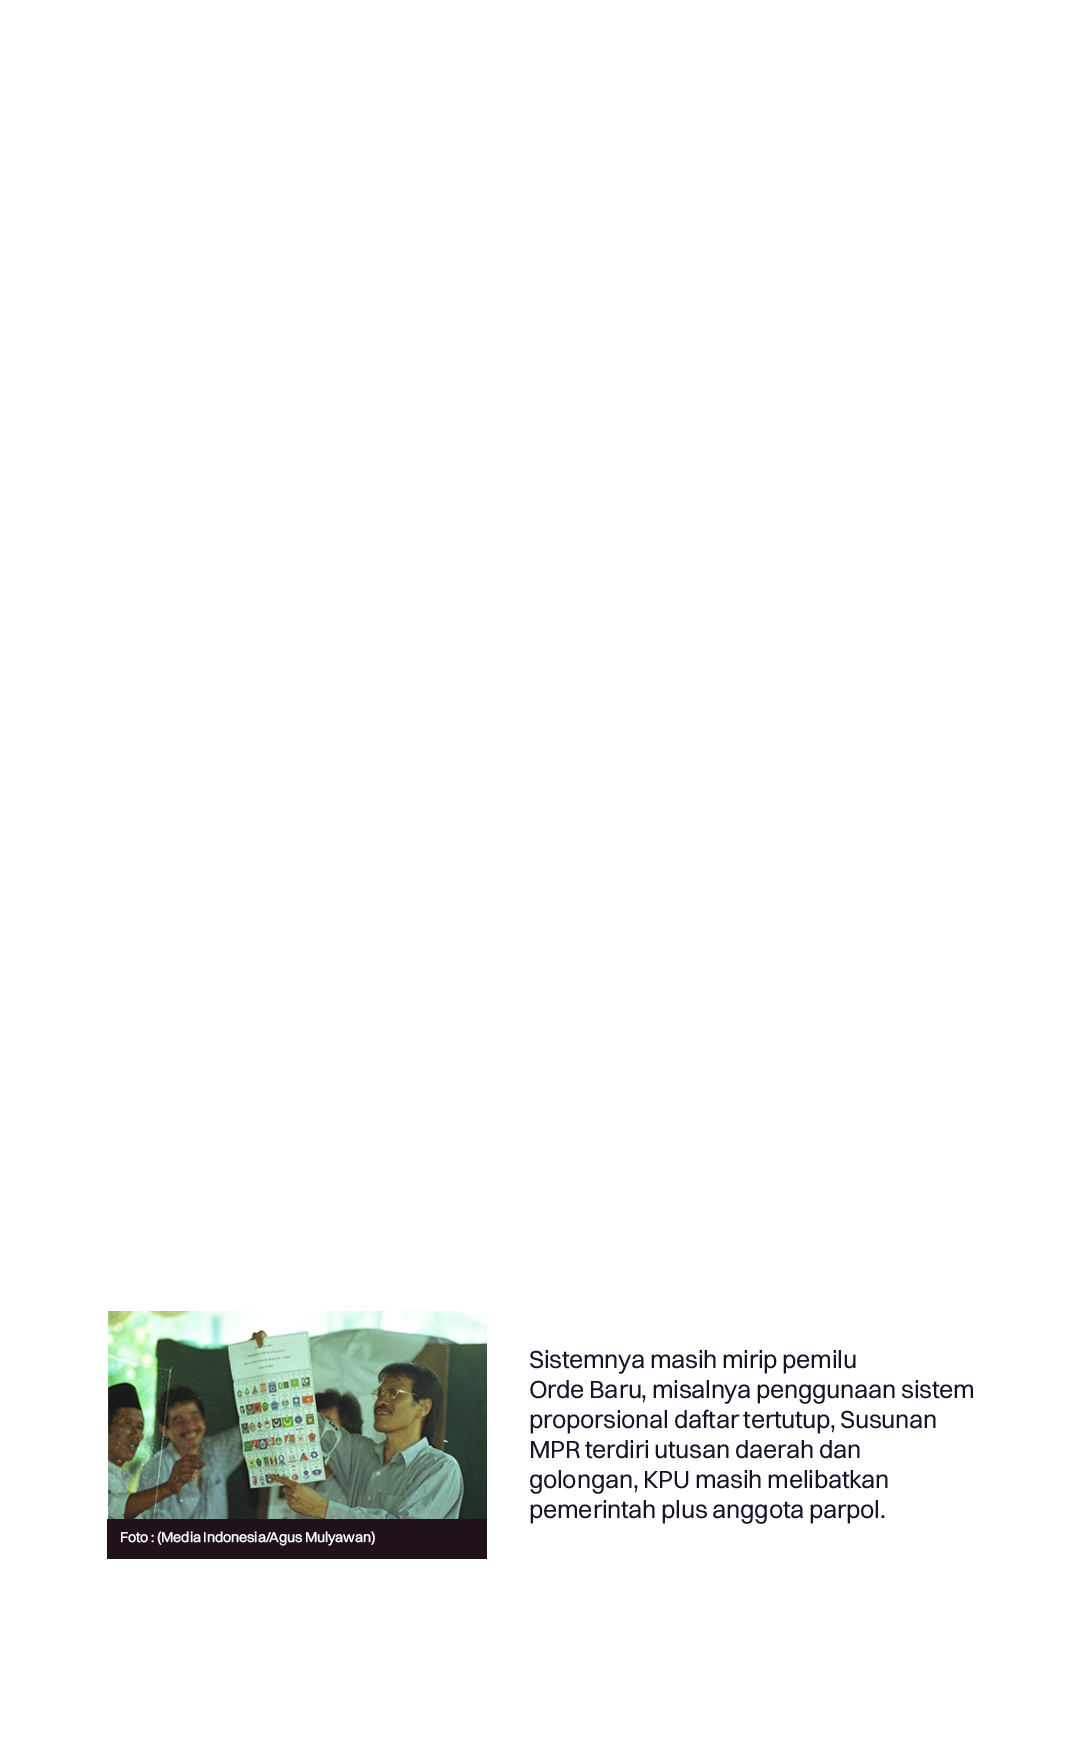
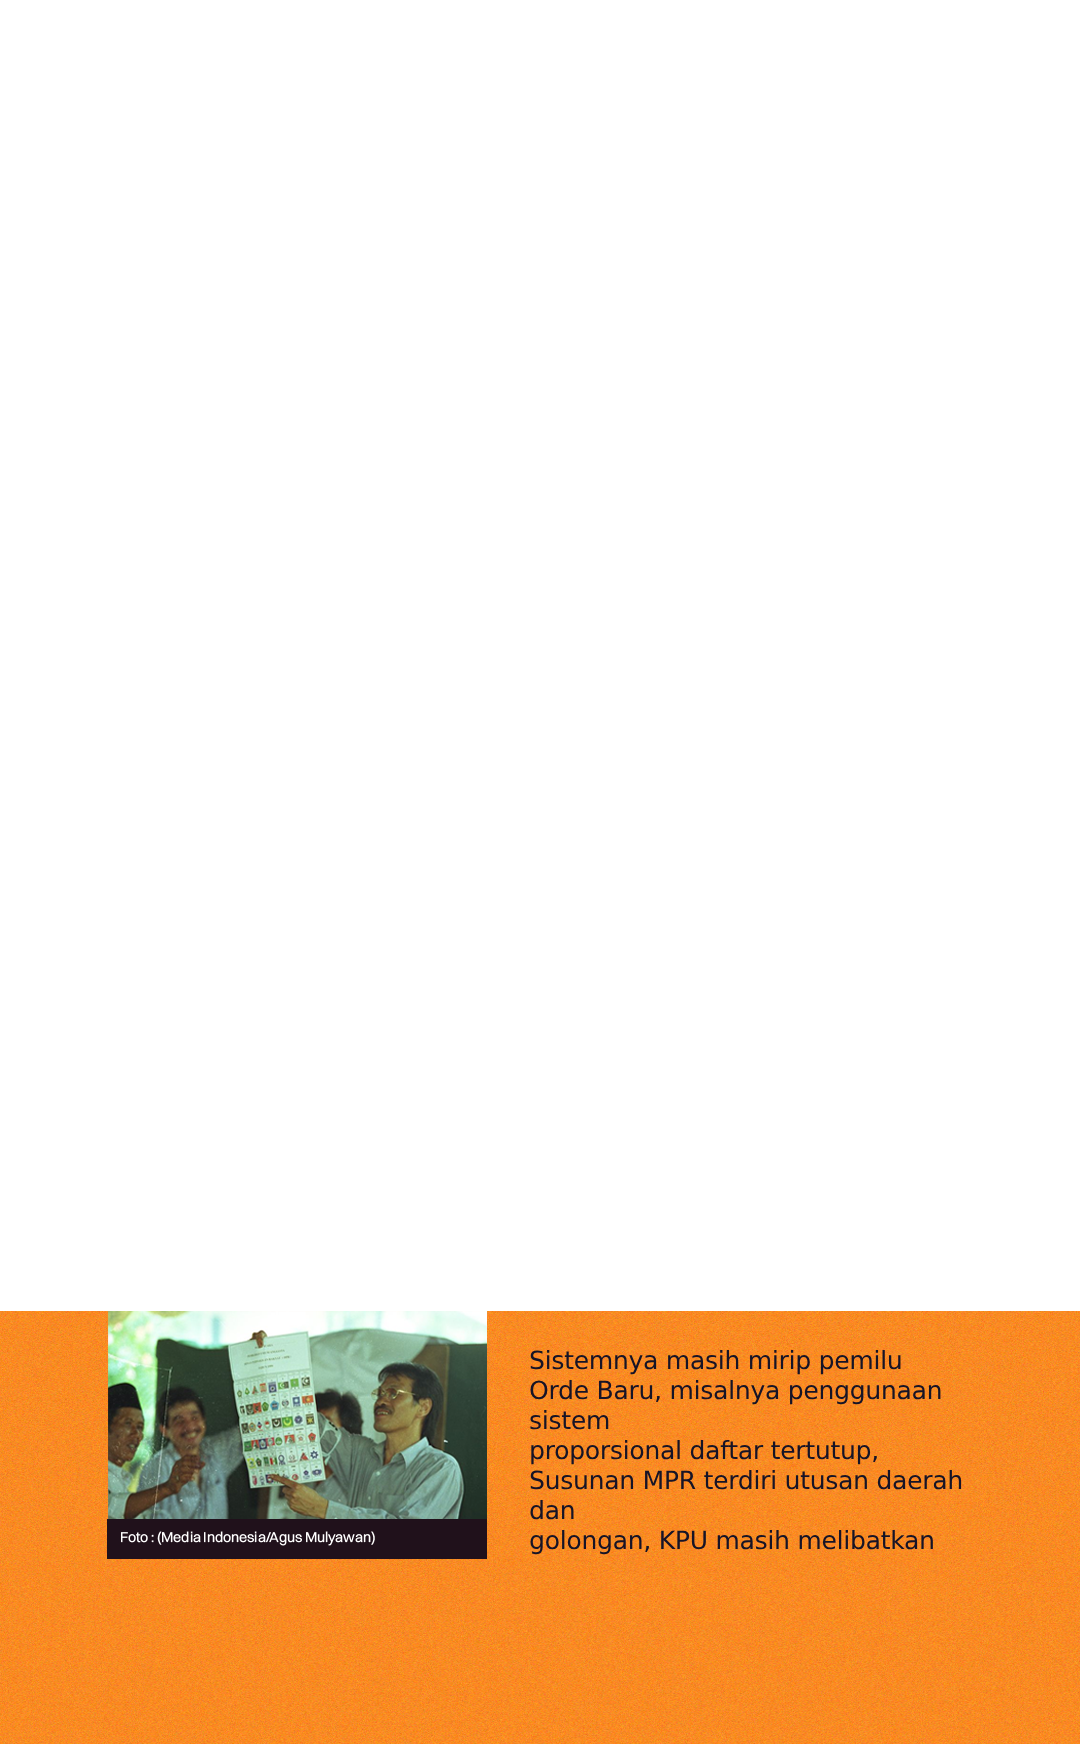
WIP: election 2004

Changed region(s): [[0.0, 0.7431, 1.0, 1.0]]

diff --git a/src/components/dynamic/section-orba-collapsed.tsx b/src/components/dynamic/section-orba-collapsed.tsx
@@ -19,7 +19,7 @@ export default function SectionOrbaCollapsed() {
   };
 
   return (
-    <div className="bg-[#1A1218] w-full py-12 mx-auto">
+    <div className="bg-[#1A1218] w-full py-12 mx-auto relative">
       <div className="mx-auto flex items-center justify-center flex-col">
         <h5 className="text-white font-bold leading-snug text-5xl text-center max-w-4xl mx-auto h-[200px]">
           Orde Baru Runtuh, Lahirlah Pemilu Luber Jurdil
@@ -80,7 +80,7 @@ export default function SectionOrbaCollapsed() {
         </div>
       </div>
 
-      <div className=" mx-auto flex items-center justify-center flex-col">
+      <div className="mx-auto flex items-center justify-center flex-col">
         <div className="h-[800px] w-full relative flex justify-center items-center">
           <div
             className="!bg-cover absolute z-0 w-[1000px] flex items-center justify-center h-full"
@@ -138,52 +138,58 @@ export default function SectionOrbaCollapsed() {
           </p>
         </div>
       </div>
-
-      <div className="flex flex-row items-start justify-center w-full h-[1500px]">
+      <div className="relative h-[1800px] flex flex-col items-center">
+        <div className="flex flex-row items-start justify-center w-full h-[1500px] z-0">
+          <motion.div
+            className="relative w-full h-[785px]"
+            initial="hidden"
+            animate="visible"
+            variants={containerAnimate}
+          >
+            {new Array(7).fill(0).map((_, i) => {
+              indexImage++;
+              return (
+                <motion.img
+                  variants={item}
+                  key={`${
+                    // biome-ignore lint/suspicious/noArrayIndexKey: <explanation>
+                    i
+                  }`}
+                  className={`absolute z-0 w-[50%] left-[25%] `}
+                  src={`pemilu-dan-dinamikanya-dari-masa-ke-masa/assets/collapsed/${indexImage}.png`}
+                  alt={indexImage.toString()}
+                />
+              );
+            })}
+          </motion.div>
+        </div>
         <motion.div
-          className="relative w-full h-[785px]"
           initial="hidden"
           whileInView="visible"
           variants={containerAnimate}
+          className="prose absolute bottom-0 text-white mx-auto z-10"
         >
-          {new Array(7).fill(0).map((_, i) => {
-            indexImage++;
-            return (
-              <motion.img
-                variants={item}
-                key={`${
-                  // biome-ignore lint/suspicious/noArrayIndexKey: <explanation>
-                  i
-                }`}
-                className="absolute z-20 w-[50%] left-[25%]"
-                src={`pemilu-dan-dinamikanya-dari-masa-ke-masa/assets/collapsed/${indexImage}.png`}
-                alt={indexImage.toString()}
-              />
-            );
-          })}
+          <motion.p variants={item}>
+            Meski dianggap demikian, Pemilu 1999 masih mengadopsi sistem Pemilu
+            Orde Baru. Beberapa di antaranya: penggunaan sistem proporsional
+            daftar tertutup, susunan MPR masih menggunakan utusan daerah dan
+            golongan, KPU masih melibatkan pemerintah ditambah anggota parpol.
+          </motion.p>
+          <motion.p variants={item}>
+            Setelah pemilihan dewan legislatif selesai, MPR RI menggelar sidang
+            umum untuk memilih presiden dan wakil presiden. Pemilihan presiden
+            Indonesia berlangsung pada 20 Oktober 1999, sedangkan pemilihan
+            wakil presiden dilaksanakan pada 21 Oktober.
+          </motion.p>
+          <motion.p variants={item}>
+            Dalam pemilu tidak langsung itu, Abdurrahman Wahid alias Gus Dur
+            dilantik sebagai Presiden RI bersama wakilnya, Megawati
+            Soekarnoputri. Dua tahun kemudian, terjadi pergantian presiden. MPR
+            RI mengadakan sidang istimewa dan menetapkan Megawati sebagai
+            presiden, menggantikan Gus Dur, dan Hamzah Haz sebagai wakilnya.
+            Itulah pemilihan presiden tidak langsung terakhir di era Reformasi.
+          </motion.p>
         </motion.div>
-      </div>
-      <div className="prose text-white mx-auto z-20">
-        <p>
-          Meski dianggap demikian, Pemilu 1999 masih mengadopsi sistem Pemilu
-          Orde Baru. Beberapa di antaranya: penggunaan sistem proporsional
-          daftar tertutup, susunan MPR masih menggunakan utusan daerah dan
-          golongan, KPU masih melibatkan pemerintah ditambah anggota parpol.
-        </p>
-        <p>
-          Setelah pemilihan dewan legislatif selesai, MPR RI menggelar sidang
-          umum untuk memilih presiden dan wakil presiden. Pemilihan presiden
-          Indonesia berlangsung pada 20 Oktober 1999, sedangkan pemilihan wakil
-          presiden dilaksanakan pada 21 Oktober.
-        </p>
-        <p>
-          Dalam pemilu tidak langsung itu, Abdurrahman Wahid alias Gus Dur
-          dilantik sebagai Presiden RI bersama wakilnya, Megawati Soekarnoputri.
-          Dua tahun kemudian, terjadi pergantian presiden. MPR RI mengadakan
-          sidang istimewa dan menetapkan Megawati sebagai presiden, menggantikan
-          Gus Dur, dan Hamzah Haz sebagai wakilnya. Itulah pemilihan presiden
-          tidak langsung terakhir di era Reformasi.
-        </p>
       </div>
     </div>
   );

diff --git a/src/components/dynamic/section-president-direct.tsx b/src/components/dynamic/section-president-direct.tsx
@@ -1,0 +1,16 @@
+export default function SectionPresidentDirect() {
+  return (
+    <div className="w-full mx-auto bg-[#F6F0E2] flex items-center justify-center">
+      <div className="flex flex-col w-full items-center justify-center space-y-4 max-w-7xl">
+        <h5 className="font-bold text-5xl text-center my-6 max-w-[80%] leading-snug mx-auto">
+          Pemilu 2004, Saat Presiden Dipilih Langsung
+        </h5>
+        <img
+          className="w-[1000px] border-8 shadow rounded-xl border-[#fffaf0]"
+          src="pemilu-dan-dinamikanya-dari-masa-ke-masa/assets/Wikimedia_Commons_(3).jpg"
+          alt="Surat Suara"
+        />
+      </div>
+    </div>
+  );
+}

diff --git a/src/components/dynamic/introduction-hero.tsx b/src/components/dynamic/introduction-hero.tsx
@@ -25,7 +25,7 @@ export default function IntroductionHero({ block }: { block: BlockType }) {
             <motion.h5
               initial={{ opacity: 0, y: 0 }}
               whileInView={{ opacity: 1, y: -20 }}
-              className="text-5xl font-bold text-white max-w-[60%] text-center leading-snug"
+              className="text-7xl font-bold text-white max-w-[80%] text-center leading-snug"
             >
               Pemilu dan Dinamikanya dari Masa ke Masa
             </motion.h5>

diff --git a/src/app/page.tsx b/src/app/page.tsx
@@ -16,7 +16,7 @@ const groupByToMap = <T, Q>(
 export default function Home() {
   const grouped = groupByToMap(generateBlocks, (item) => item.group);
   return (
-    <main className="min-h-dvh space-y-8 bg-neutral-50">
+    <main className="min-h-dvh bg-neutral-50">
       {Object.keys(Object.fromEntries(grouped)).map((groupName) => {
         const blocks = Array.from(grouped.get(groupName)?.values() ?? []);
         return (

diff --git a/src/app/globals.css b/src/app/globals.css
@@ -15,4 +15,7 @@
   h3.heading {
     @apply text-2xl font-medium;
   }
+  #section-5 {
+    @apply bg-[#F6F0E2];
+  }
 }
